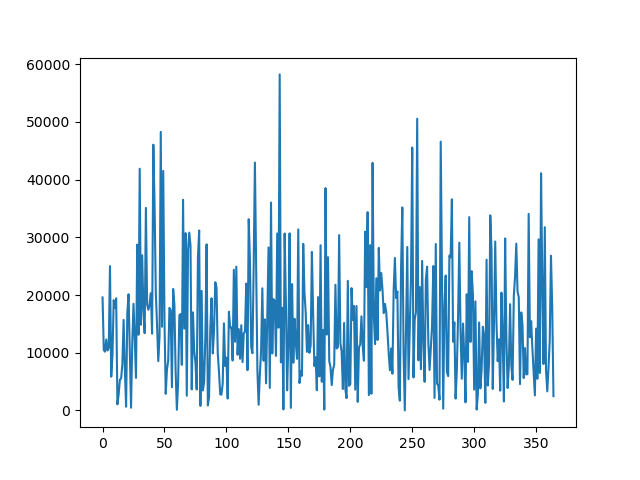
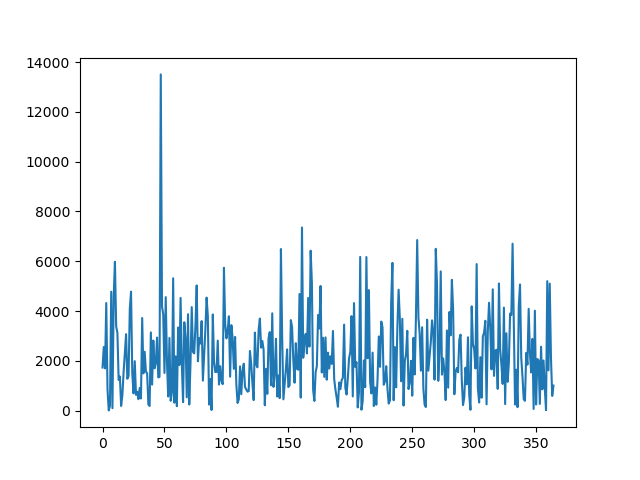
Cloud Storage Ingestion Cost Simulation

diff --git a/gpu/cost_analysis_cudf.md b/gpu/cost_analysis_cudf.md
@@ -61,15 +61,15 @@ rows = np.round(gen_data(mu, 50, days), 0) * 1e9
 rows[:50]
 ```
 ```text
-array([2.12e+11, 1.34e+11, 1.17e+11, 1.49e+11, 1.78e+11, 3.80e+10,
-       1.36e+11, 1.00e+11, 4.10e+10, 1.32e+11, 1.05e+11, 1.78e+11,
-       1.14e+11, 4.40e+10, 6.90e+10, 1.05e+11, 3.30e+10, 1.19e+11,
-       5.80e+10, 6.00e+09, 1.43e+11, 1.31e+11, 7.50e+10, 4.20e+10,
-       6.80e+10, 1.67e+11, 1.03e+11, 8.40e+10, 1.07e+11, 7.40e+10,
-       1.92e+11, 1.12e+11, 1.02e+11, 6.90e+10, 7.70e+10, 1.36e+11,
-       1.16e+11, 1.21e+11, 1.34e+11, 1.25e+11, 1.03e+11, 1.70e+11,
-       1.91e+11, 1.23e+11, 1.50e+11, 3.40e+10, 1.31e+11, 1.86e+11,
-       6.10e+10, 1.58e+11])
+array([1.34e+11, 8.00e+10, 8.10e+10, 1.61e+11, 5.30e+10, 1.00e+10,
+       8.00e+09, 1.63e+11, 4.90e+10, 1.56e+11, 1.44e+11, 1.32e+11,
+       1.45e+11, 5.20e+10, 1.23e+11, 1.06e+11, 2.40e+10, 6.50e+10,
+       8.70e+10, 1.14e+11, 1.00e+11, 6.60e+10, 2.02e+11, 1.70e+11,
+       1.23e+11, 3.70e+10, 9.70e+10, 1.04e+11, 4.40e+10, 1.10e+11,
+       2.60e+10, 5.20e+10, 1.62e+11, 8.60e+10, 1.12e+11, 5.90e+10,
+       1.01e+11, 4.60e+10, 4.00e+10, 8.40e+10, 3.70e+10, 1.32e+11,
+       6.80e+10, 8.60e+10, 1.42e+11, 1.29e+11, 5.60e+10, 2.56e+11,
+       1.33e+11, 1.77e+11])
 ```
 
 Then generate different record sizes and again taking into account element of randomness 
@@ -78,16 +78,16 @@ size_kb = gen_data(1, 0.5, days)
 size_kb[:50]
 ```
 ```text
-array([0.6368345 , 0.53845971, 0.59993506, 0.56915304, 0.40233333,
-       1.95551984, 1.26749983, 0.40315177, 1.59453739, 0.9977041 ,
-       1.1700193 , 0.75225312, 0.06423521, 0.43733229, 0.53207042,
-       0.36510346, 1.66771478, 0.90867772, 0.86687966, 0.75003732,
-       0.814253  , 1.05945731, 0.94909614, 0.07750137, 1.19475339,
-       0.76291239, 0.82643234, 0.46363452, 1.85141784, 1.22141825,
-       1.50350416, 0.91429837, 1.8167039 , 1.72516134, 1.19922491,
-       1.77885785, 1.09000296, 0.99389852, 0.94640651, 1.12030288,
-       0.89005732, 1.86714622, 1.28658232, 1.14080763, 0.67728014,
-       1.73211748, 0.67629164, 1.78840555, 1.63874132, 1.81057046])
+array([0.58665729, 1.45003301, 0.95157851, 1.21846504, 0.73394111,
+       0.04577056, 1.09688516, 1.33025666, 0.09185652, 1.33208538,
+       1.88424182, 1.1644085 , 0.97867671, 1.0765287 , 0.50662871,
+       0.08066607, 1.1617845 , 1.08134547, 1.21386616, 1.22388331,
+       0.58146822, 0.95853788, 0.92052233, 1.27611515, 0.55276376,
+       0.84961316, 0.93015397, 0.27660171, 0.78476622, 0.19023719,
+       1.59099942, 0.42745015, 1.04264242, 0.79059961, 0.9590777 ,
+       1.2093227 , 0.67432358, 0.24007244, 0.21427387, 1.69870793,
+       1.28338128, 0.9678571 , 1.13489447, 1.00205534, 0.93852447,
+       0.4696987 , 1.10678811, 2.39465893, 1.42679065, 0.9891491 ])
 ```
 
 Now, lets create CUDA DataFrame (which is very similar to Pandas one)
@@ -108,18 +108,18 @@ cdf["cost"] = cdf["total_size_gb"] * 0.0231
 
 Lets see how data now looks like. Please note that data is located inside GPU memory and not in the RAM.
 ```text
-rows 	size 	total_size_gb 	cost
-0 	8.000000e+10 	1.082932 	82621.0 	1908.5451
-1 	1.930000e+11 	0.571516 	105193.0 	2429.9583
-2 	1.380000e+11 	0.308074 	40545.0 	936.5895
-3 	1.020000e+11 	0.824643 	80217.0 	1853.0127
-4 	1.360000e+11 	0.990358 	128449.0 	2967.1719
+	rows 	size 	total_size_gb 	cost
+0 	1.340000e+11 	0.586657 	74970.0 	1731.8070
+1 	8.000000e+10 	1.450033 	110629.0 	2555.5299
+2 	8.100000e+10 	0.951579 	73507.0 	1698.0117
+3 	1.610000e+11 	1.218465 	187085.0 	4321.6635
+4 	5.300000e+10 	0.733941 	37097.0 	856.9407
 ... 	... 	... 	... 	...
-360 	9.800000e+10 	0.365040 	34117.0 	788.1027
-361 	1.430000e+11 	1.253338 	170924.0 	3948.3444
-362 	1.100000e+11 	1.117580 	117239.0 	2708.2209
-363 	1.430000e+11 	0.348529 	47531.0 	1097.9661
-364 	1.760000e+11 	0.064562 	10836.0 	250.3116
+360 	1.170000e+11 	0.627697 	70038.0 	1617.8778
+361 	1.490000e+11 	1.553880 	220802.0 	5100.5262
+362 	1.030000e+11 	0.926896 	91048.0 	2103.2088
+363 	6.000000e+10 	0.446918 	25573.0 	590.7363
+364 	6.900000e+10 	0.662074 	43567.0 	1006.3977
 
 365 rows × 4 columns
 ```
@@ -175,7 +175,7 @@ ax.hist(estimates, 30, density=True)
 fig.savefig("storage_cost_simulation_result")
 ```
 
-Below is histogram of simulation results for 10000 years! Here x axis in pounds (million)
+Below is histogram of simulation results for 10000 years! Here x axis in pounds.
 ![simulation_result](../images/storage_cost_simulation_result.png)
 
 Using this simulation one can calculate possible range of annual cost estimations with 
